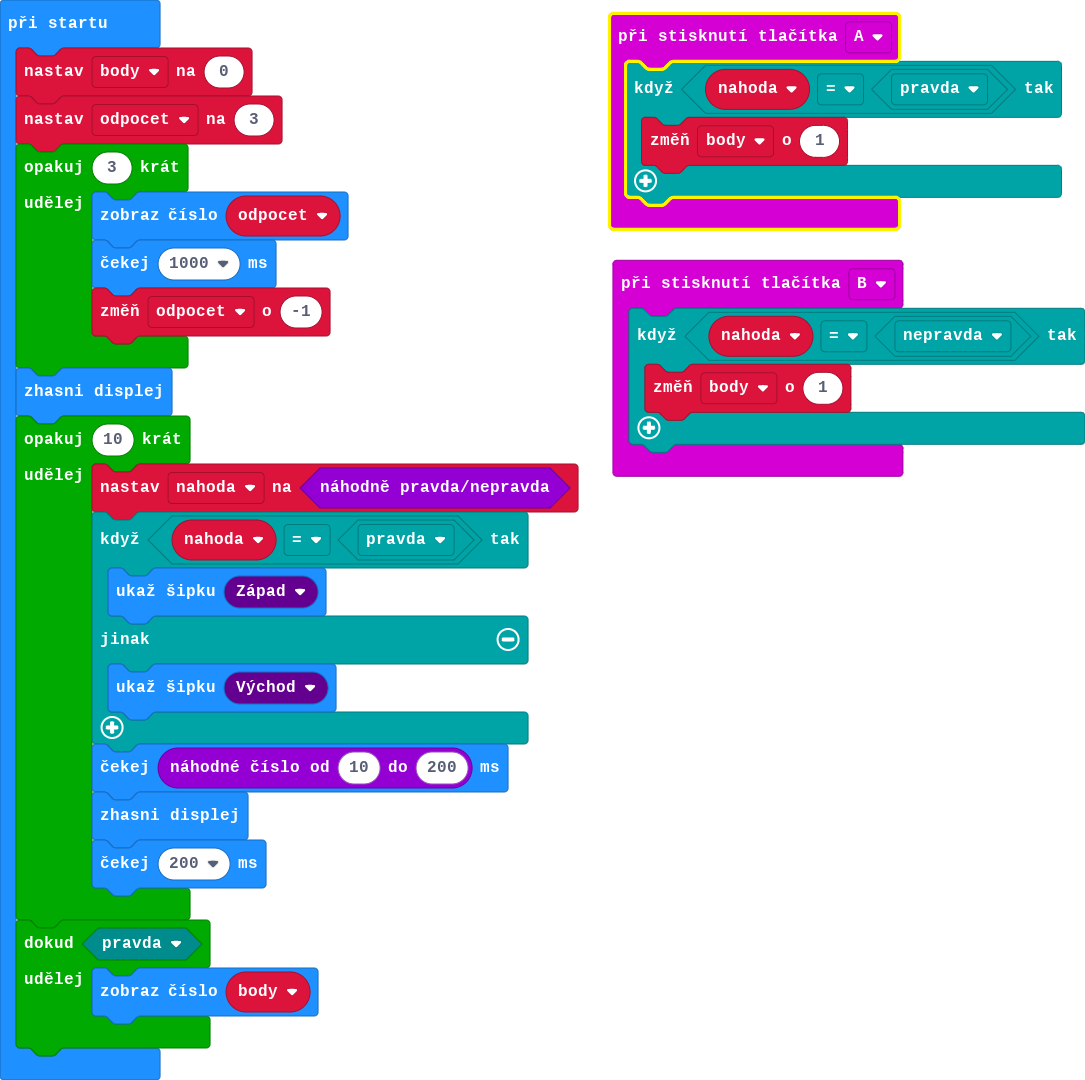
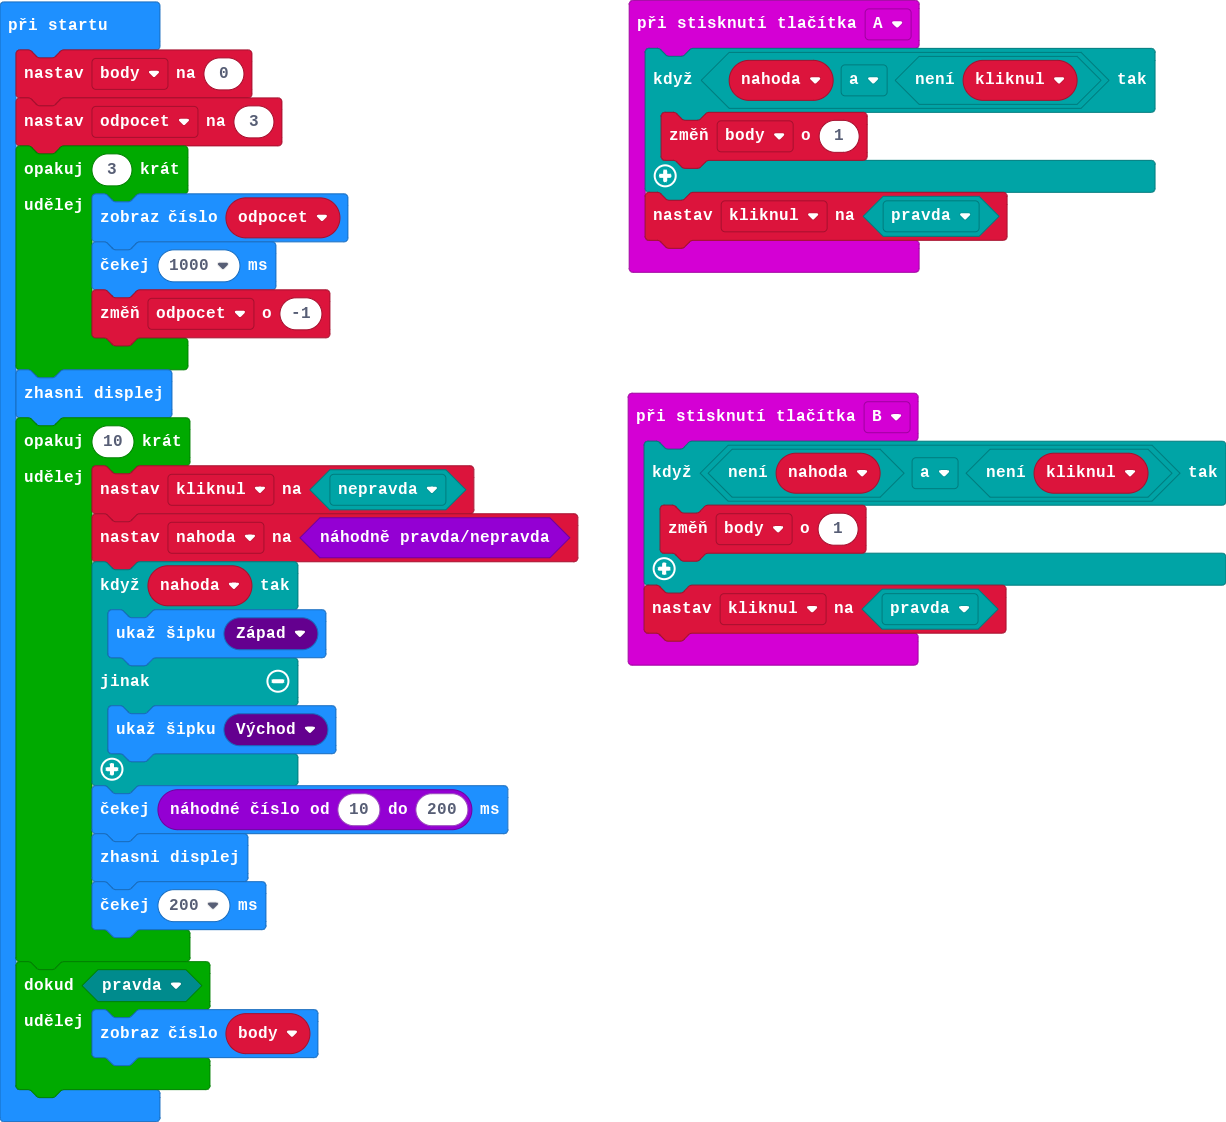
Doplněná kontrola proti více-klikům.

diff --git a/main.ts b/main.ts
@@ -1,14 +1,17 @@
 input.onButtonPressed(Button.A, function () {
-    if (nahoda == true) {
+    if (nahoda && !(kliknul)) {
         body += 1
     }
+    kliknul = true
 })
 input.onButtonPressed(Button.B, function () {
-    if (nahoda == false) {
+    if (!(nahoda) && !(kliknul)) {
         body += 1
     }
+    kliknul = true
 })
 let nahoda = false
+let kliknul = false
 let body = 0
 let odpocet = 3
 for (let index = 0; index < 3; index++) {
@@ -18,8 +21,9 @@ for (let index = 0; index < 3; index++) {
 }
 basic.clearScreen()
 for (let index = 0; index < 10; index++) {
+    kliknul = false
     nahoda = Math.randomBoolean()
-    if (nahoda == true) {
+    if (nahoda) {
         basic.showArrow(ArrowNames.West)
     } else {
         basic.showArrow(ArrowNames.East)
